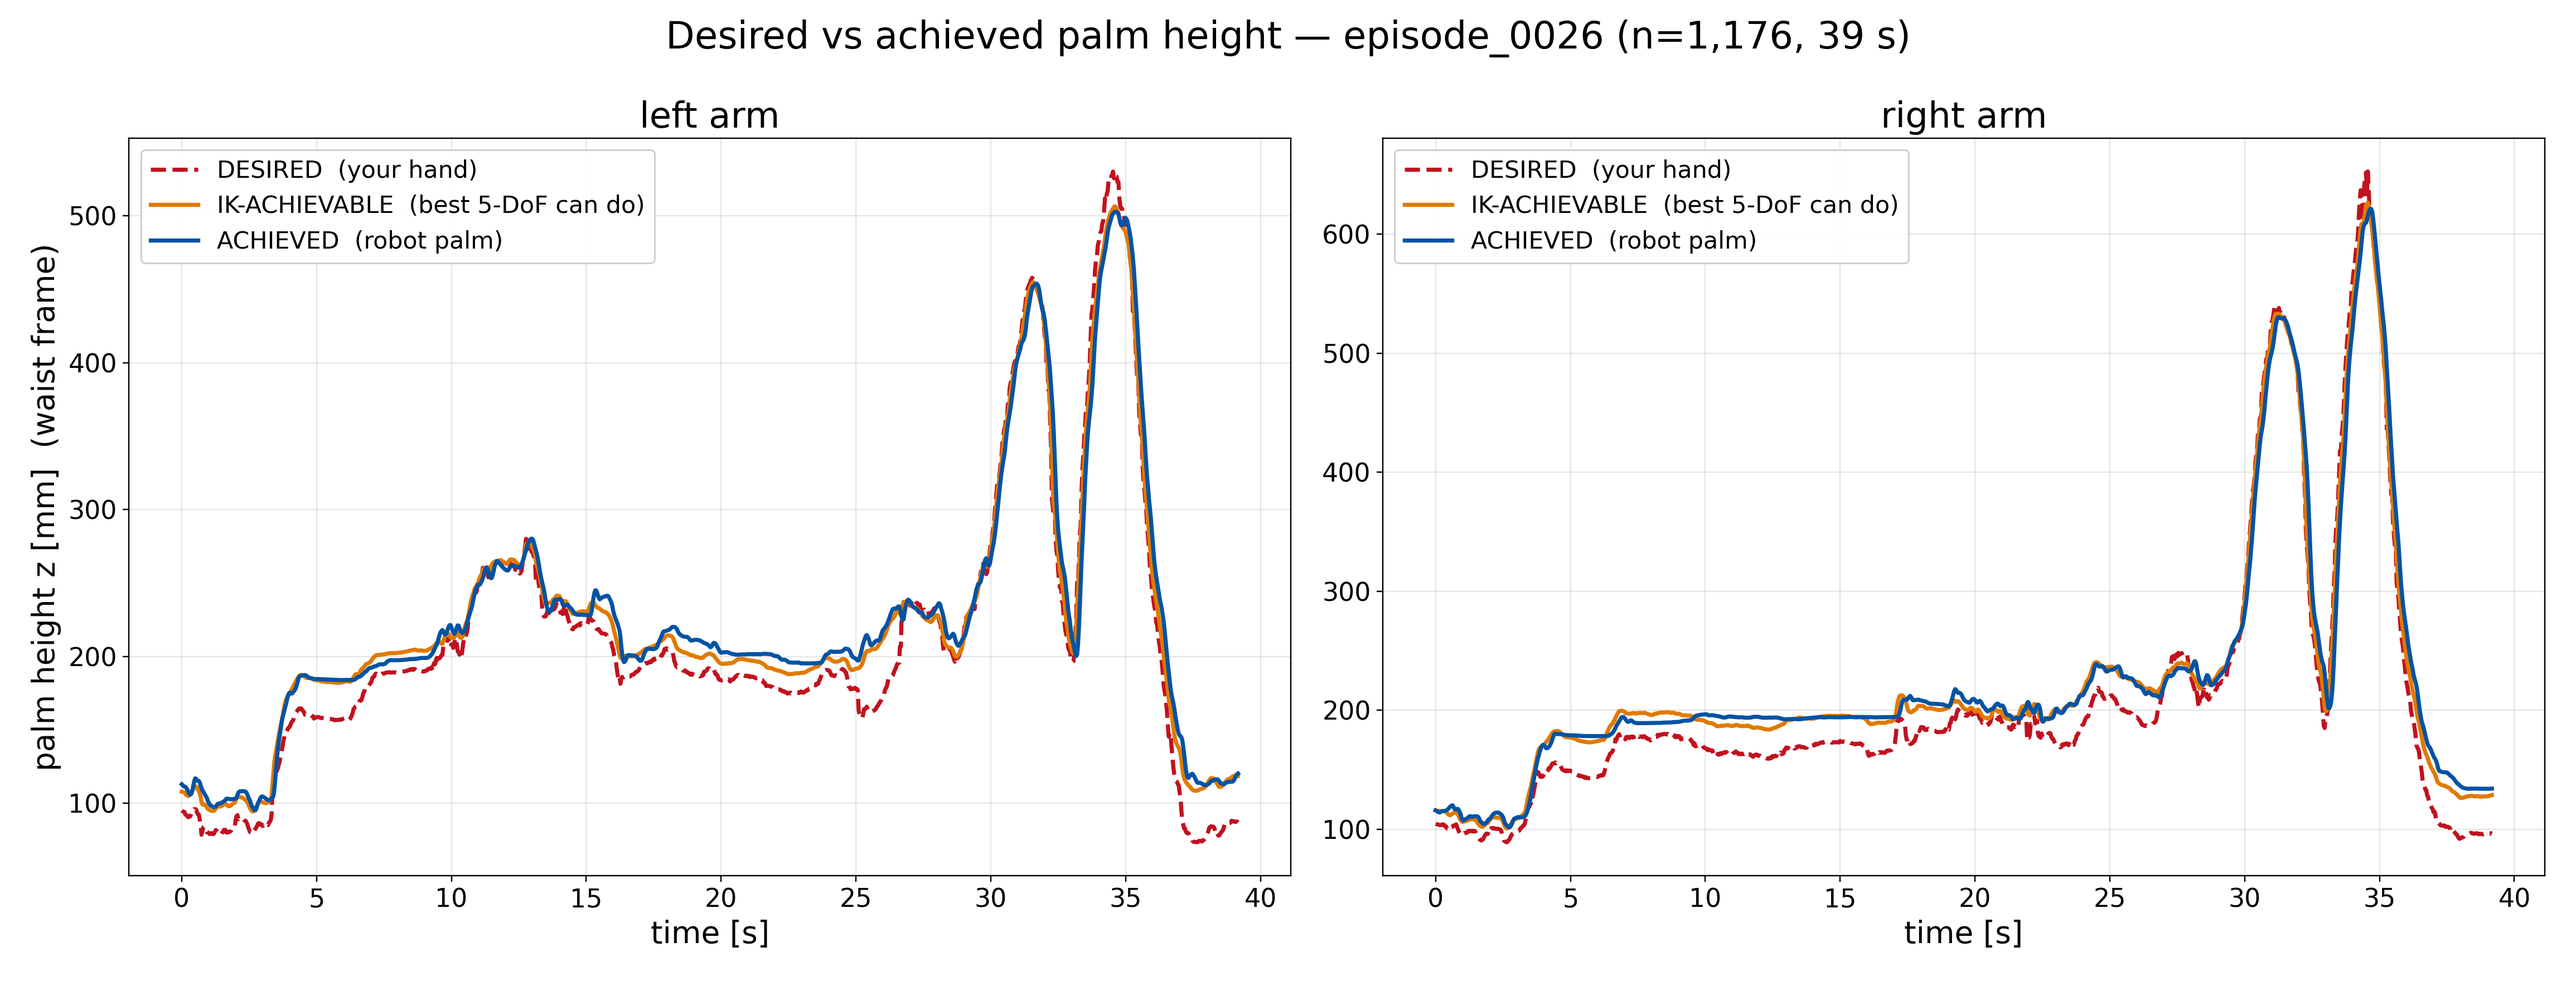
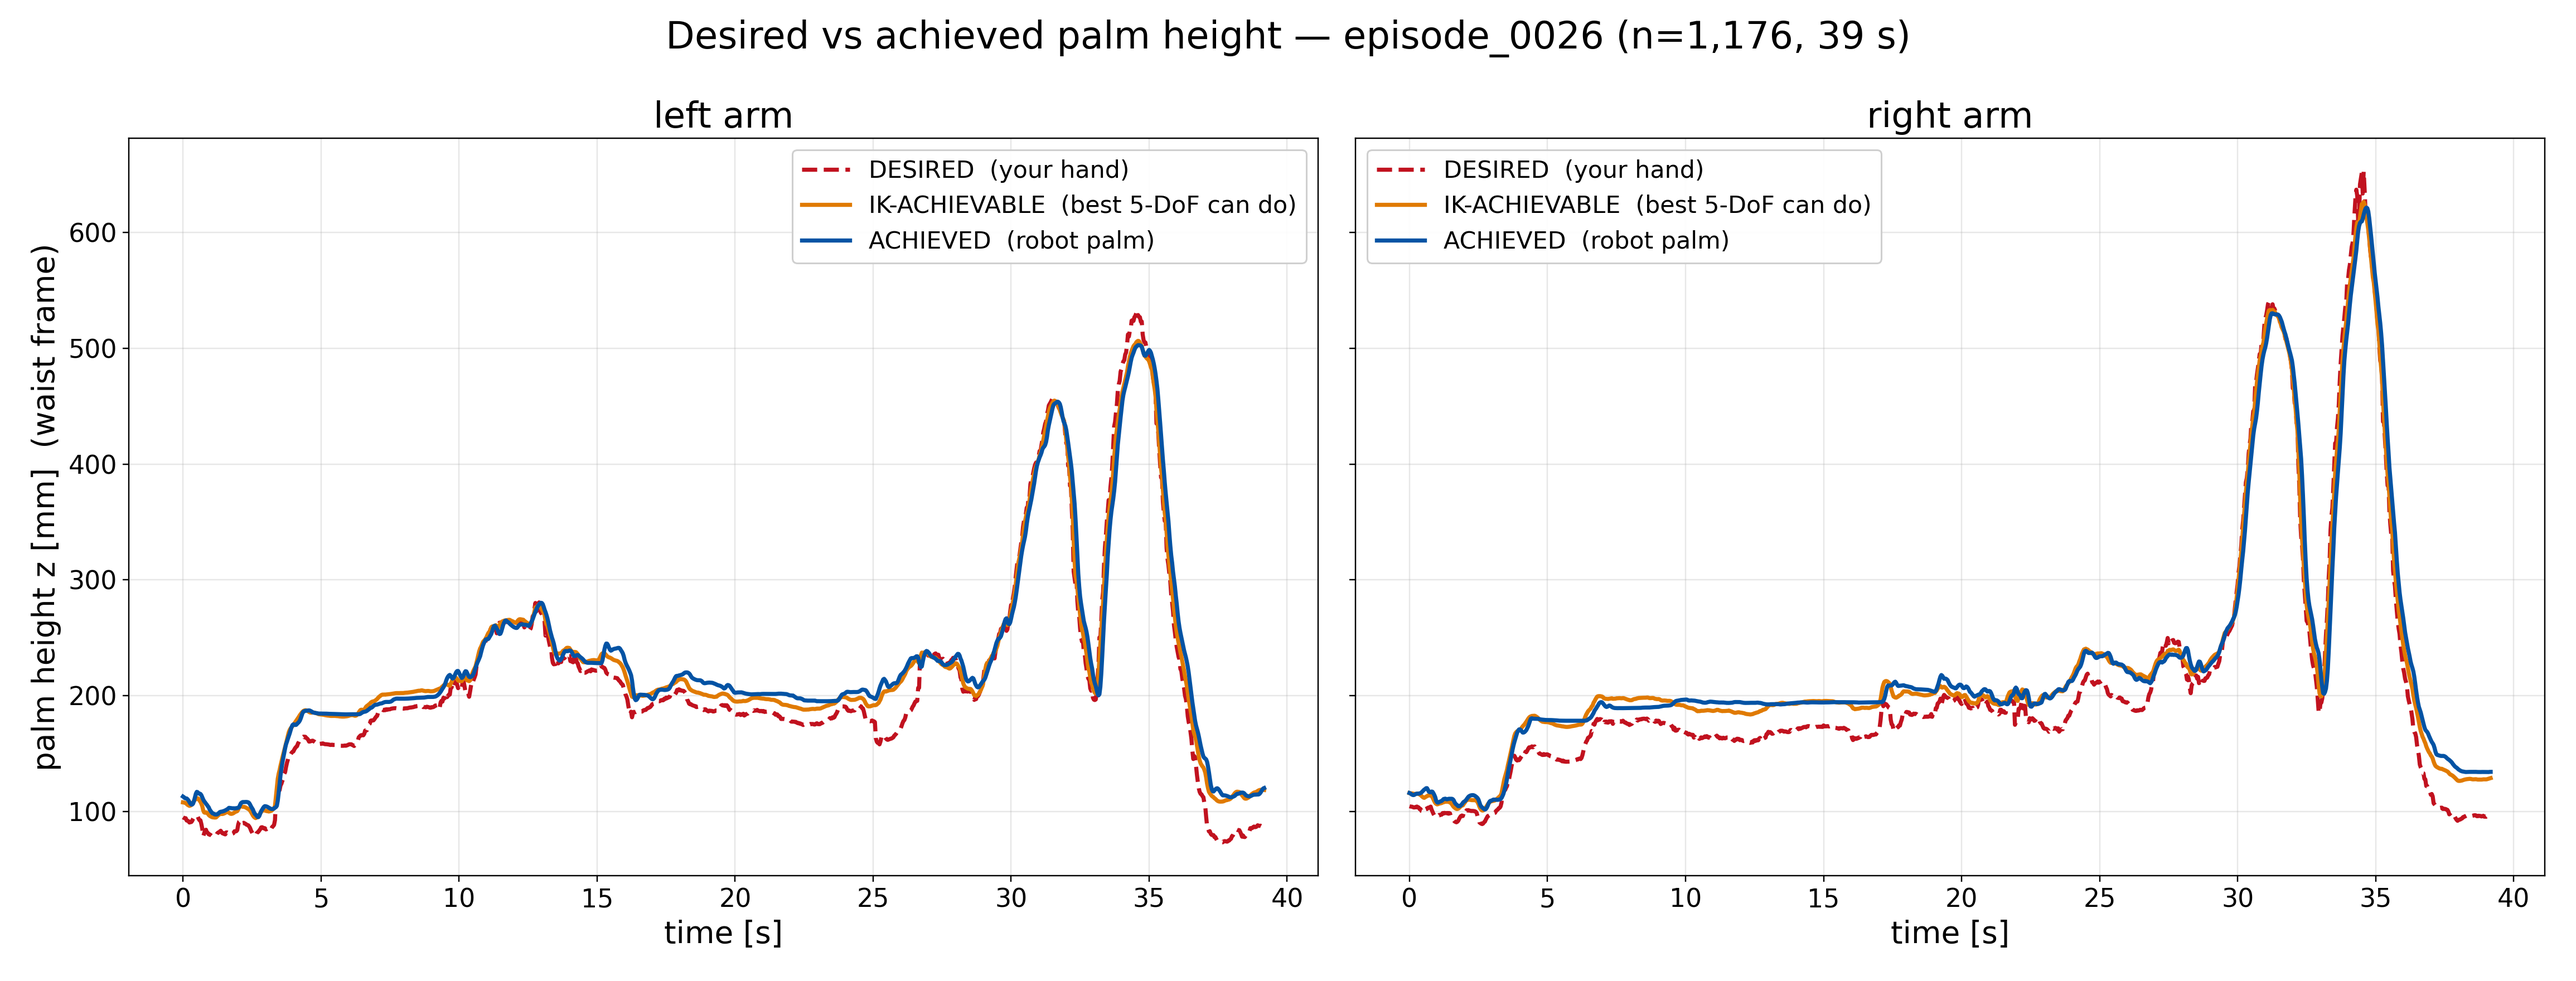
analysis: fix plot 5 binning across sessions; share y-axis on plot 1
Plot 5 connected each session's four reach quartiles as one series, so with
two target episodes the line doubled back on itself and read as noise. Bin the
pooled samples instead (8 equal-count bins, median + IQR band), giving one
monotone curve per arm. Plot 1's two arm panels now share a y-axis so they are
visually comparable.

diff --git a/analysis/arm_tracking/arm_tracking_analysis.py b/analysis/arm_tracking/arm_tracking_analysis.py
@@ -213,6 +213,7 @@ def main():
     # TOTAL, REACHABILITY and SERVO are always over IDENTICAL samples and the split
     # is internally consistent. pooled_task keeps every episode for the servo term.
     pooled_decomp = {}
+    pooled_reach = {}   # (arm) -> [(reach_mm, residual_mm)] across all target episodes
 
     for ep in eps:
         env = "sim" if ep["is_sim"] else "physical"
@@ -294,6 +295,7 @@ def main():
                 bias = d.mean(0)
                 reach = np.linalg.norm(Pd, axis=1) * 1000.0
                 mag = np.linalg.norm(d, axis=1)
+                pooled_reach.setdefault(side, []).append((reach, mag))
                 qs = np.quantile(reach, [0, .25, .5, .75, 1.0])
                 for i in range(4):
                     sel = (reach >= qs[i]) & (reach <= qs[i + 1])
@@ -370,7 +372,7 @@ def main():
             ik_reach_dependence=reach_rows,
             aggregate_joint=agg_joint, aggregate_taskspace=agg_task), f, indent=2)
 
-    make_plots(eps, agg_joint, pooled_task, pooled_decomp, reach_rows)
+    make_plots(eps, agg_joint, pooled_task, pooled_decomp, reach_rows, pooled_reach)
     print(f"wrote outputs to {OUT_DIR}")
 
 
@@ -389,7 +391,7 @@ def _style():
                          "grid.alpha": 0.3, "lines.linewidth": 2.4})
 
 
-def make_plots(eps, agg_joint, pooled_task, pooled_decomp, reach_rows):
+def make_plots(eps, agg_joint, pooled_task, pooled_decomp, reach_rows, pooled_reach):
     _style()
     tgt = [e for e in eps if e["included"] and e["has_target"]]
     inc = [e for e in eps if e["included"]]
@@ -397,7 +399,7 @@ def make_plots(eps, agg_joint, pooled_task, pooled_decomp, reach_rows):
     # ---- Plot 1: desired vs IK-achievable vs achieved palm height
     if tgt:
         e = max(tgt, key=lambda x: x["task"]["left"]["Pd"][:, 2].ptp())
-        fig, axes = plt.subplots(1, 2, figsize=(21, 8))
+        fig, axes = plt.subplots(1, 2, figsize=(21, 8), sharey=True)
         T = e["task"]; t = np.arange(e["n"]) * DT
         for ax, side in zip(axes, ("left", "right")):
             ax.plot(t, T[side]["Pd"][:, 2]*1000, color=COL["total"], ls="--",
@@ -489,20 +491,30 @@ def make_plots(eps, agg_joint, pooled_task, pooled_decomp, reach_rows):
                      f"all three terms over identical samples", fontsize=19)
         fig.tight_layout(); fig.savefig(f"{OUT_DIR}/plot4_decomposition.png"); plt.close(fig)
 
-    # ---- Plot 5: IK residual vs reach distance
-    if reach_rows:
-        fig, ax = plt.subplots(figsize=(13, 8))
-        for side, mk in (("left", "o"), ("right", "s")):
-            rr = [r for r in reach_rows if r["arm"] == side]
-            xc = [(r["reach_lo_mm"] + r["reach_hi_mm"]) / 2 for r in rr]
-            ax.plot(xc, [r["ik_residual_median_mm"] for r in rr], marker=mk, ms=11,
-                    color=COL["reachability"] if side == "left" else COL["total"],
-                    label=f"{side} arm (median)")
+    # ---- Plot 5: IK residual vs reach distance, pooled over every target episode.
+    # Binning must be done on the POOLED samples: plotting each session's quartiles as one
+    # connected series makes the line double back on itself and reads as noise.
+    if pooled_reach:
+        fig, ax = plt.subplots(figsize=(13.5, 8))
+        NBIN = 8
+        for side, mk, c in (("left", "o", COL["reachability"]), ("right", "s", COL["total"])):
+            reach = np.concatenate([a[0] for a in pooled_reach[side]])
+            mag   = np.concatenate([a[1] for a in pooled_reach[side]])
+            edges = np.quantile(reach, np.linspace(0, 1, NBIN + 1))
+            xc, med, lo, hi = [], [], [], []
+            for i in range(NBIN):
+                sel = (reach >= edges[i]) & (reach <= edges[i + 1])
+                if sel.sum() < 20: continue
+                xc.append(np.median(reach[sel])); med.append(np.median(mag[sel]))
+                lo.append(np.percentile(mag[sel], 25)); hi.append(np.percentile(mag[sel], 75))
+            ax.fill_between(xc, lo, hi, color=c, alpha=0.16)
+            ax.plot(xc, med, marker=mk, ms=10, color=c,
+                    label=f"{side} arm — median (band = IQR), n={reach.size:,}")
         ax.set_xlabel("distance of the requested pose from the waist [mm]")
         ax.set_ylabel("IK reachability residual [mm]")
-        ax.set_title("The 5-DoF limit is real: the error grows with reach\n"
-                     "(a constant frame offset would be flat)", fontsize=19)
-        ax.legend()
+        ax.set_title("The 5-DoF limit is real: the error grows with how far you reach\n"
+                     "(a constant frame offset would be a flat line)", fontsize=19)
+        ax.legend(fontsize=14)
         fig.tight_layout(); fig.savefig(f"{OUT_DIR}/plot5_ik_vs_reach.png"); plt.close(fig)
 
 
